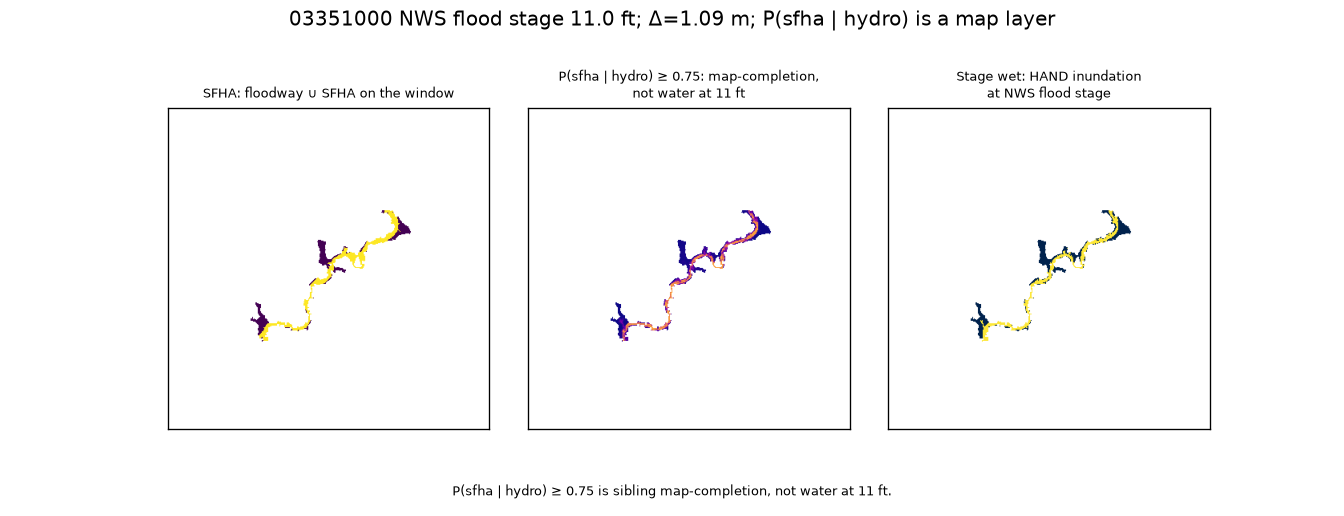
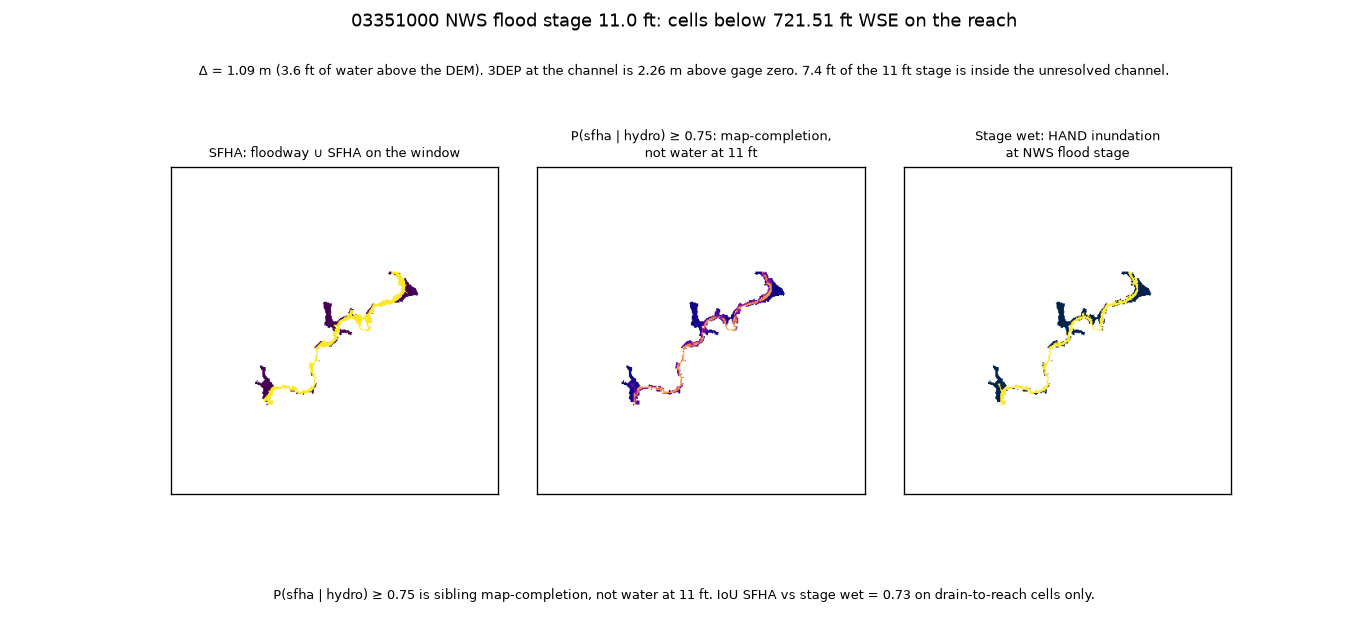
Caption Nora Δ as 1.09 m water above 3DEP, not 11 ft.
three_wet.png now prints Δ, the 2.26 m channel offset, cells below
721.51 ft WSE on the reach, and IoU on drain-to-reach cells only.
Window D8 is logged as not byte-identical to sibling Stage B.

diff --git a/src/stageflood/live.py b/src/stageflood/live.py
@@ -31,7 +31,7 @@ from stageflood.config import (
 )
 from stageflood.d8 import flowdir_from_dem
 from stageflood.errors import ChannelUnlockedError, GateError
-from stageflood.figure import write_three_panel
+from stageflood.figure import depth_note, reach_footer, reach_title, write_three_panel
 from stageflood.http import GetBytes, GetJson
 from stageflood.nhd import fetch_white_river_flowlines, ftype_counts, rasterize_white_river
 from stageflood.nwis import fetch_exsa_rating
@@ -227,6 +227,12 @@ def run_stage_a_live(
         "tributary_rule": "D8 drain to the White River window, not Euclidean near the gage",
         "nhd_n_features": len(features),
         "nhd_ftype_counts": ftype_counts(features),
+        "d8_byte_identical_to_sibling_stage_b": False,
+        "d8_note": (
+            "Window D8 rebuilt from DEM + HAND=0 stream paint + White River. "
+            "Sibling has no flowdir.tif. Paths are not byte-identical to sibling Stage B. "
+            "HAND not recomputed."
+        ),
         "hand_recomputed": False,
         "p_is_forecast": False,
         "hand_mask_is_firm": False,
@@ -291,6 +297,7 @@ def run_stage_b_live(out_dir: Path) -> dict[str, Any]:
         "huc_wide": huc_wide,
         "delta_m": float(a["delta_m"]),
         "wet_rule": "D8 drain-to-reach and finite HAND and HAND < Δ; not Euclidean to the gage",
+        "d8_byte_identical_to_sibling_stage_b": False,
         "hand_recomputed": False,
         "p_is_forecast": False,
         "hand_mask_is_firm": False,
@@ -340,10 +347,14 @@ def run_stage_c_live(out_dir: Path) -> dict[str, Any]:
         huc_cell_count=huc_cells,
     )
     a = json.loads((Path(out_dir) / "stage_a_report.json").read_text(encoding="utf-8"))
-    title = (
-        f"{GAGE_ID} {PRIMARY_STAGE_LABEL} {PRIMARY_STAGE_FT} ft; "
-        f"Δ={float(a['delta_m']):.2f} m; {P_DEFINITION} is a map layer"
+    wse_ft = float(a["wse_ft_navd88"])
+    title = reach_title(wse_ft=wse_ft)
+    delta_line = depth_note(
+        delta_m=float(a["delta_m"]),
+        dem_minus_datum_m=float(a["dem_minus_datum_m"]),
+        dem_source="3DEP at the channel",
     )
+    footer = reach_footer(iou_sfha_wet=float(table["iou_sfha_wet"]))
     fig = write_three_panel(
         Path(out_dir) / "three_wet.png",
         wet=wet,
@@ -351,17 +362,27 @@ def run_stage_c_live(out_dir: Path) -> dict[str, Any]:
         p_cal=p_cal,
         drain_to_reach=drain,
         title=title,
+        delta_line=delta_line,
+        footer=footer,
         huc_cell_count=huc_cells,
     )
     report = {
         "stage": "C",
         "kind": "live",
         "figure": str(fig),
+        "figure_title": title,
+        "figure_delta_line": delta_line,
+        "figure_footer": footer,
+        "wet_meaning": (
+            f"cells below {wse_ft:.2f} ft WSE among cells that drain to this "
+            f"{float(a['reach_along_m']) / 1000.0:.0f} km reach"
+        ),
         "p_definition": P_DEFINITION,
         "p_headline_t": P_HEADLINE_T,
         "p_is_forecast": False,
         "hand_mask_is_firm": False,
         "hand_recomputed": False,
+        "d8_byte_identical_to_sibling_stage_b": False,
         **table,
     }
     _write_json(Path(out_dir) / "stage_c_report.json", report)
@@ -477,10 +498,13 @@ def run_window_stages(
             "stage_label": PRIMARY_STAGE_LABEL,
             "rating_point_stage_ft": placed[0],
             "rating_point_q_cfs": placed[1],
+            "wse_ft_navd88": NWS_FLOOD_WSE_FT_NAVD88,
             "wse_m": wse,
             "h_channel_m": h_channel,
             "h_channel_locked": True,
             "delta_m": delta,
+            "dem_minus_datum_m": h_channel - GAGE_DATUM_FT_NAVD88 * FT_TO_M,
+            "reach_along_m": REACH_ALONG_M,
             "p_is_forecast": False,
             "hand_mask_is_firm": False,
         },

diff --git a/src/stageflood/figure.py b/src/stageflood/figure.py
@@ -8,8 +8,48 @@ from pathlib import Path
 import numpy as np
 
 from stageflood.claims import require_clean
-from stageflood.config import P_DEFINITION, P_HEADLINE_T, SFHA_CODES, WET_WET
+from stageflood.config import (
+    FT_TO_M,
+    GAGE_ID,
+    P_DEFINITION,
+    P_HEADLINE_T,
+    PRIMARY_STAGE_FT,
+    PRIMARY_STAGE_LABEL,
+    SFHA_CODES,
+    WET_WET,
+)
 from stageflood.errors import GateError
+
+
+def depth_note(
+    *,
+    delta_m: float,
+    dem_minus_datum_m: float,
+    stage_ft: float = PRIMARY_STAGE_FT,
+    dem_source: str,
+) -> str:
+    """Caption Δ as water above the DEM, not stage-as-depth."""
+    above_ft = float(delta_m) / FT_TO_M
+    unresolved_ft = float(stage_ft) - above_ft
+    return (
+        f"Δ = {float(delta_m):.2f} m ({above_ft:.1f} ft of water above the DEM). "
+        f"{dem_source} is {float(dem_minus_datum_m):.2f} m above gage zero. "
+        f"{unresolved_ft:.1f} ft of the {float(stage_ft):.0f} ft stage is inside the unresolved channel."
+    )
+
+
+def reach_title(*, wse_ft: float) -> str:
+    return (
+        f"{GAGE_ID} {PRIMARY_STAGE_LABEL} {PRIMARY_STAGE_FT} ft: "
+        f"cells below {float(wse_ft):.2f} ft WSE on the reach"
+    )
+
+
+def reach_footer(*, iou_sfha_wet: float) -> str:
+    return (
+        f"{P_DEFINITION} ≥ {P_HEADLINE_T} is sibling map-completion, not water at 11 ft. "
+        f"IoU SFHA vs stage wet = {float(iou_sfha_wet):.2f} on drain-to-reach cells only."
+    )
 
 
 def write_three_panel(
@@ -20,9 +60,13 @@ def write_three_panel(
     p_cal: np.ndarray,
     drain_to_reach: np.ndarray,
     title: str,
+    delta_line: str,
+    footer: str,
     huc_cell_count: int | None = None,
 ) -> Path:
     require_clean(title, source="figure_title")
+    require_clean(delta_line, source="figure_delta")
+    require_clean(footer, source="figure_footer")
     import matplotlib
 
     matplotlib.use("Agg")
@@ -40,7 +84,7 @@ def write_three_panel(
     wet_b = (np.asarray(wet) == WET_WET).astype(float)
     for arr in (sfha, p_show, wet_b):
         arr[~drain] = np.nan
-    fig, axes = plt.subplots(1, 3, figsize=(11.2, 4.3))
+    fig, axes = plt.subplots(1, 3, figsize=(11.4, 5.2))
     panels = (
         (axes[0], sfha, "SFHA: floodway ∪ SFHA on the window", "viridis", 0.0, 1.0),
         (
@@ -53,16 +97,15 @@ def write_three_panel(
         ),
         (axes[2], wet_b, "Stage wet: HAND inundation\nat NWS flood stage", "cividis", 0.0, 1.0),
     )
-    footer = f"{P_DEFINITION} ≥ {P_HEADLINE_T} is sibling map-completion, not water at 11 ft."
-    require_clean(footer, source="figure_footer")
     for ax, data, lab, cmap, vmin, vmax in panels:
         require_clean(lab, source="figure_panel")
         ax.imshow(data, origin="upper", cmap=cmap, vmin=vmin, vmax=vmax)
         ax.set_title(lab, fontsize=8)
         ax.set_xticks([])
         ax.set_yticks([])
-    fig.suptitle(title)
-    fig.subplots_adjust(bottom=0.14, top=0.82, wspace=0.12)
+    fig.suptitle(title, fontsize=11)
+    fig.text(0.5, 0.88, delta_line, ha="center", fontsize=8, wrap=True)
+    fig.subplots_adjust(bottom=0.14, top=0.80, wspace=0.12)
     fig.text(0.5, 0.04, footer, ha="center", fontsize=8)
     dest.parent.mkdir(parents=True, exist_ok=True)
     fig.savefig(dest, dpi=120)

diff --git a/src/stageflood/pipeline.py b/src/stageflood/pipeline.py
@@ -12,18 +12,20 @@ import numpy as np
 from stageflood.claims import require_clean, require_paths_clean
 from stageflood.compare import overlap_table
 from stageflood.config import (
+    FT_TO_M,
     GAGE_DATUM_FT_NAVD88,
     GAGE_ID,
     GAGE_NAME,
     HYDRO_NODATA,
     LOCKED_BAND_SHA256,
+    NWS_FLOOD_WSE_FT_NAVD88,
     P_DEFINITION,
     P_HEADLINE_T,
     PRIMARY_STAGE_FT,
     PRIMARY_STAGE_LABEL,
 )
 from stageflood.errors import ChannelUnlockedError, GateError
-from stageflood.figure import write_three_panel
+from stageflood.figure import depth_note, reach_footer, reach_title, write_three_panel
 from stageflood.fixture import drain_truth, write_fixture
 from stageflood.physics import paint_wet, relative_height_m, stage_to_wse_m
 from stageflood.rating import fixture_rating, require_stage_on_rating
@@ -99,6 +101,7 @@ def run_stage_a_fixture(out_dir: Path) -> dict[str, Any]:
         "h_channel_locked": True,
         "h_channel_is_gage_datum": False,
         "delta_m": delta,
+        "dem_minus_datum_m": h_channel - GAGE_DATUM_FT_NAVD88 * FT_TO_M,
         "p_is_forecast": False,
     }
     _write_json(out_dir / "stage_a_report.json", report)
@@ -199,10 +202,14 @@ def run_stage_c_fixture(out_dir: Path) -> dict[str, Any]:
     drain = drain_to_reach(flowdir, reach, np.ones(wet.shape, dtype=bool))
     table = overlap_table(wet=wet, zone=zone, p_cal=p_cal, drain_to_reach=drain)
     a = json.loads((out_dir / "stage_a_report.json").read_text(encoding="utf-8"))
-    title = (
-        f"{GAGE_ID} {PRIMARY_STAGE_LABEL} {PRIMARY_STAGE_FT} ft; "
-        f"Δ={float(a['delta_m']):.2f} m; {P_DEFINITION} is a map layer"
+    wse_ft = float(a.get("wse_ft_navd88") or NWS_FLOOD_WSE_FT_NAVD88)
+    title = reach_title(wse_ft=wse_ft)
+    delta_line = depth_note(
+        delta_m=float(a["delta_m"]),
+        dem_minus_datum_m=float(a["dem_minus_datum_m"]),
+        dem_source="Channel DEM",
     )
+    footer = reach_footer(iou_sfha_wet=float(table["iou_sfha_wet"]))
     fig = write_three_panel(
         out_dir / "three_wet.png",
         wet=wet,
@@ -210,11 +217,16 @@ def run_stage_c_fixture(out_dir: Path) -> dict[str, Any]:
         p_cal=p_cal,
         drain_to_reach=drain,
         title=title,
+        delta_line=delta_line,
+        footer=footer,
     )
     report = {
         "stage": "C",
         "kind": "fixture",
         "figure": str(fig),
+        "figure_title": title,
+        "figure_delta_line": delta_line,
+        "figure_footer": footer,
         "p_definition": P_DEFINITION,
         "p_headline_t": P_HEADLINE_T,
         "p_is_forecast": False,

diff --git a/tests/test_physics.py b/tests/test_physics.py
@@ -10,6 +10,7 @@ from stageflood.config import (
     NWS_FLOOD_WSE_FT_NAVD88,
     PRIMARY_STAGE_FT,
 )
+from stageflood.figure import depth_note
 from stageflood.physics import paint_wet, relative_height_m, stage_to_wse_m, wse_ft_navd88
 
 
@@ -25,6 +26,14 @@ def test_wse_is_datum_plus_stage_not_channel() -> None:
     assert abs(double_count - PRIMARY_STAGE_FT * 0.3048) < 1e-9
     assert abs(delta - FIXTURE_DELTA_M) < 1e-9
     assert abs(h_channel - datum_m) > 1.0
+    note = depth_note(
+        delta_m=1.0919,
+        dem_minus_datum_m=2.2609,
+        dem_source="3DEP at the channel",
+    )
+    assert "Δ = 1.09 m" in note
+    assert "2.26 m above gage zero" in note
+    assert "3.6 ft of water above the DEM" in note
 
 
 def test_relative_height_and_paint() -> None:

diff --git a/tests/test_pipeline.py b/tests/test_pipeline.py
@@ -19,6 +19,11 @@ def test_fixture_paints_reach_not_tributary(tmp_path: Path) -> None:
     assert report["n_stage_wet"] == REACH_C1 - REACH_C0
     assert report["n_reach_comparable"] < FIXTURE_ROWS * FIXTURE_COLS
     assert (tmp_path / "three_wet.png").is_file()
+    assert report["iou_universe"] == "drain-to-reach"
+    assert "Δ = 1.00 m" in report["figure_delta_line"]
+    assert "gage zero" in report["figure_delta_line"]
+    assert "cells below" in report["figure_title"]
+    assert "drain-to-reach cells only" in report["figure_footer"]
     a = (tmp_path / "stage_a_report.json").read_text(encoding="utf-8")
     assert str(PRIMARY_STAGE_FT) in a
     assert '"h_channel_is_gage_datum": false' in a

diff --git a/tests/test_live.py b/tests/test_live.py
@@ -76,3 +76,7 @@ def test_window_stages_channel_wet_bank_dry(tmp_path: Path) -> None:
     assert wet[STREAM_ROW - 1, GAGE_COL] == 0
     assert abs(channel_z_m() - (NWS_FLOOD_WSE_FT_NAVD88 * 0.3048 - 1.0)) < 1e-9
     assert not np.all(wet == 1)
+    assert report["iou_universe"] == "drain-to-reach"
+    assert "cells below" in report["figure_title"]
+    assert "gage zero" in report["figure_delta_line"]
+    assert "drain-to-reach cells only" in report["figure_footer"]

diff --git a/tests/test_readme.py b/tests/test_readme.py
@@ -14,5 +14,8 @@ def test_license_mit_and_readme_lead() -> None:
     assert "HAND" in README
     assert "P(sfha | hydro)" in README
     assert "not water at 11 ft" in README
+    assert "721.51" in README
+    assert "drain-to-reach" in README
+    assert "1.09" in README
     assert "indiana_flood_completion" in README
     assert ".venv/bin/python -m pytest tests -q" in README

diff --git a/src/stageflood/compare.py b/src/stageflood/compare.py
@@ -63,6 +63,7 @@ def overlap_table(
         "n_sfha_and_wet": int((a & c).sum()),
         "n_sfha_dry_at_stage": int((a & ~c).sum()),
         "n_wet_unshaded_x": int((c & (z == ZONE_UNSHADED_X)).sum()),
+        "iou_universe": "drain-to-reach",
         "iou_sfha_wet": _iou(a, c),
         "iou_p_wet": _iou(b, c),
         "iou_sfha_p": _iou(a, b),

diff --git a/tests/test_compare.py b/tests/test_compare.py
@@ -21,6 +21,7 @@ def test_overlap_counts_and_refuses_huc_wide() -> None:
     assert t["n_stage_wet"] == 3
     assert t["n_wet_unshaded_x"] == 1
     assert t["n_sfha_dry_at_stage"] == 0
+    assert t["iou_universe"] == "drain-to-reach"
     with pytest.raises(GateError):
         overlap_table(
             wet=wet,

diff --git a/METHODOLOGY.md b/METHODOLOGY.md
@@ -40,7 +40,9 @@ Sibling `data/interim/hand.tif` (metres, EPSG:5070, template sha256 `479ac37628b
 3. `Δ = WSE − h_channel`.
 4. A cell is wet only if all of these hold: it drains along D8 to a White River cell inside the reach window; sibling HAND is finite; `HAND < Δ`.
 
-The USGS EXSA rating places `h` on a published Q-stage curve and refuses a stage off the curve. Painting uses stage/WSE, not Q. Sibling flowdir was never written; D8 on the window is rebuilt from the sibling DEM plus HAND=0 stream paint and the White River raster. HAND values are not recomputed.
+The USGS EXSA rating places `h` on a published Q-stage curve and refuses a stage off the curve. Painting uses stage/WSE, not Q. Sibling flowdir was never written; D8 on the window is rebuilt from the sibling DEM plus HAND=0 stream paint and the White River raster. Those paths are not byte-identical to sibling Stage B. HAND values are not recomputed.
+
+Live at 03351000: Δ = 1.09 m because 3DEP at the channel is 2.26 m above gage zero. On this 30 m DEM, NWS flood stage is 3.6 ft of water above the DEM surface. The other 7.4 ft of the 11 ft stage sits in the unresolved channel. The wet mask is cells below 721.51 ft WSE among drain-to-reach cells.
 
 ## Stages
 
@@ -61,7 +63,9 @@ Captions (P cannot be read as stage):
 - P ≥ 0.75: sibling map-completion, not water at 11 ft
 - stage wet: HAND inundation at NWS flood stage
 
-Overlap: counts and IoU, plus SFHA-dry-at-stage and wet-on-unshaded-X. No PR-AUC. No retraining.
+Overlap: counts and IoU on drain-to-reach cells only, plus SFHA-dry-at-stage and wet-on-unshaded-X. Live IoU SFHA vs stage wet is 0.73 on that strip. No PR-AUC. No retraining.
+
+The three-panel figure prints Δ and the 3DEP-minus-datum offset so the 1.09 m water depth is read as the grid result.
 
 ## Claims
 
@@ -75,5 +79,6 @@ Read-only from `~/indiana_flood_completion/data/interim/`. `check_live_sibling()
 
 ## Revisions
 
+- 2026-08-28: Caption live Δ = 1.09 m and 3DEP +2.26 m on `three_wet.png`. Wet mask is cells below 721.51 ft WSE on drain-to-reach. IoU reported on drain-to-reach only. Window D8 not byte-identical to sibling Stage B.
 - 2026-08-28: Lock NAVD88 identity WSE = 710.51 + 11.0 = 721.51 ft. `h_channel` is sibling DEM at the White River cell, not gage datum. 5 km mainstem window. Three captions so P is not water at 11 ft. Band hashes on HAND/DEM/stream paint/P/zone. Live run: White River ftype 558 only, rating 11.00 ft at 10245.31 cfs, Δ = 1.09 m, 1197 wet cells on 2604 drain-to-reach cells.
 - 2026-08-27: Lock Nora reach, HAND < Δ, three-layer compare, GraphForge pin for sha / h_channel / claims.

diff --git a/README.md b/README.md
@@ -1,6 +1,8 @@
 # White River stage inundation (Nora)
 
-One reach. One gage. USGS **03351000** / NWS **NORI3** White River near Nora, IN, at NWS flood stage **11 ft**. Water-surface elevation is 710.51 + 11.0 = **721.51 ft NAVD88**. Cells that drain along D8 to that White River window are wet when sibling HAND is finite and below `Δ = WSE − h_channel`, with `h_channel` the sibling DEM at the White River cell nearest the gage (not gage zero). The interview figure has three layers on that reach only.
+One reach. One gage. USGS **03351000** / NWS **NORI3** White River near Nora, IN, at NWS flood stage **11 ft**. Water-surface elevation is 710.51 + 11.0 = **721.51 ft NAVD88**. Cells that drain along D8 to that White River window are wet when sibling HAND is finite and below `Δ = WSE − h_channel`, with `h_channel` the sibling DEM at the White River cell nearest the gage (not gage zero).
+
+Live Δ is **1.09 m**: 3DEP at the channel sits 2.26 m above gage zero, so flood stage on this 30 m grid is 3.6 ft of water above the DEM. The wet mask is cells below a 721.51 ft water surface among drain-to-reach cells (1197 / 2604), not 11 ft of inundation. IoU vs SFHA is 0.73 on drain-to-reach cells only.
 
 Sibling `indiana_flood_completion` stays frozen. This tree does not recompute HAND, does not train on FEMA, and does not paint the whole HUC.
 

diff --git a/AGENTS.md b/AGENTS.md
@@ -4,7 +4,7 @@ Private GitHub. MIT on this snapshot. Geography is USGS 03351000 Nora on HUC-8 0
 
 ## Formula
 
-WSE_ft = 710.51 + stage (NAVD88). `h_channel` is sibling DEM at the White River cell nearest the gage, not gage zero. Wet iff D8 drain-to-reach and finite HAND and `HAND < Δ`, `Δ = WSE − h_channel`. Paint uses stage/WSE, not Q. `P(sfha | hydro)` is map-completion, not water at 11 ft.
+WSE_ft = 710.51 + stage (NAVD88). `h_channel` is sibling DEM at the White River cell nearest the gage, not gage zero. Wet iff D8 drain-to-reach and finite HAND and `HAND < Δ`, `Δ = WSE − h_channel`. Live Δ = 1.09 m is the 3DEP offset result; caption it, do not treat it as a bug. Paint uses stage/WSE, not Q. `P(sfha | hydro)` is map-completion, not water at 11 ft. IoU is drain-to-reach only.
 
 ## Stages
 
